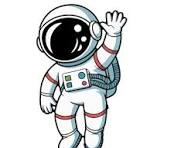
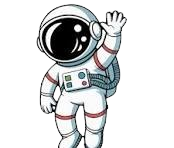
Update

diff --git a/Section-4 GoMoon App/gomoon_app/lib/pages/home_page.dart b/Section-4 GoMoon App/gomoon_app/lib/pages/home_page.dart
@@ -6,20 +6,32 @@ class HomePage extends StatelessWidget {
   @override
   Widget build(BuildContext context) {
     return Scaffold(
-      appBar: AppBar(
-        title: const Center(child: Text('GoMoon')),
-        backgroundColor: Colors.red,
-      ),
+      appBar: AppBar(title: _pageTitle(), backgroundColor: Colors.red),
       body: _astroImageWidget(),
     );
   }
 }
 
+// This widget is used to display the title of the home page.
+Widget _pageTitle() {
+  return Center(
+    child: const Text(
+      "GoMoon",
+      style: TextStyle(
+        fontSize: 24,
+        fontWeight: FontWeight.bold,
+        color: Colors.white,
+      ),
+    ),
+  );
+}
+
+// This widget is used to display the image of the astronaut on the home page.
 Widget _astroImageWidget() {
   return Container(
     decoration: const BoxDecoration(
       image: DecorationImage(
-        fit: BoxFit.cover,
+        fit: BoxFit.fill,
         image: AssetImage("assets/images/image.jpg"),
       ),
     ),
